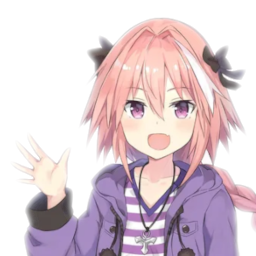
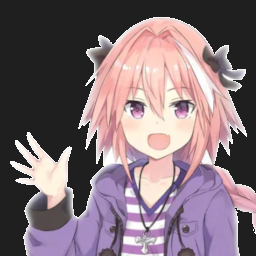
Finish dark mode

diff --git a/app/components/MapLoading.tsx b/app/components/MapLoading.tsx
@@ -1,23 +1,21 @@
-import {motion} from "framer-motion";
+import { ConfigProvider, Spin, Typography } from "antd";
 
 export default function MapLoading() {
-  return <>
-    <motion.img
-      animate={{
-        transform: [
-          'translate(-50%, -50%) rotate(0deg)',
-          'translate(-50%, -50%) rotate(360deg)'
-        ]
-      }}
-      transition={{repeat: Infinity, duration: 1, ease: 'easeInOut'}}
-      style={{
-        position: 'fixed',
-        left: '50%',
-        top: '50%',
-        transform: 'translate(-50%, -50%)'
-      }}
-      src='/astolfo loading.jpg'
-      height={128}>
-    </motion.img>
-  </>
+  return <div style={{
+    position: 'fixed',
+    left: '0',
+    top: '0',
+    width: '100vw',
+    height: '100vh',
+    backgroundColor: '#000000'
+  }}>
+    <div style={{
+      position: 'absolute',
+      left: '50%',
+      top: '50%',
+      transform: 'translate(-50%, -50%)'
+    }}>
+      <Spin size="large" />
+    </div>
+  </div>
 }
